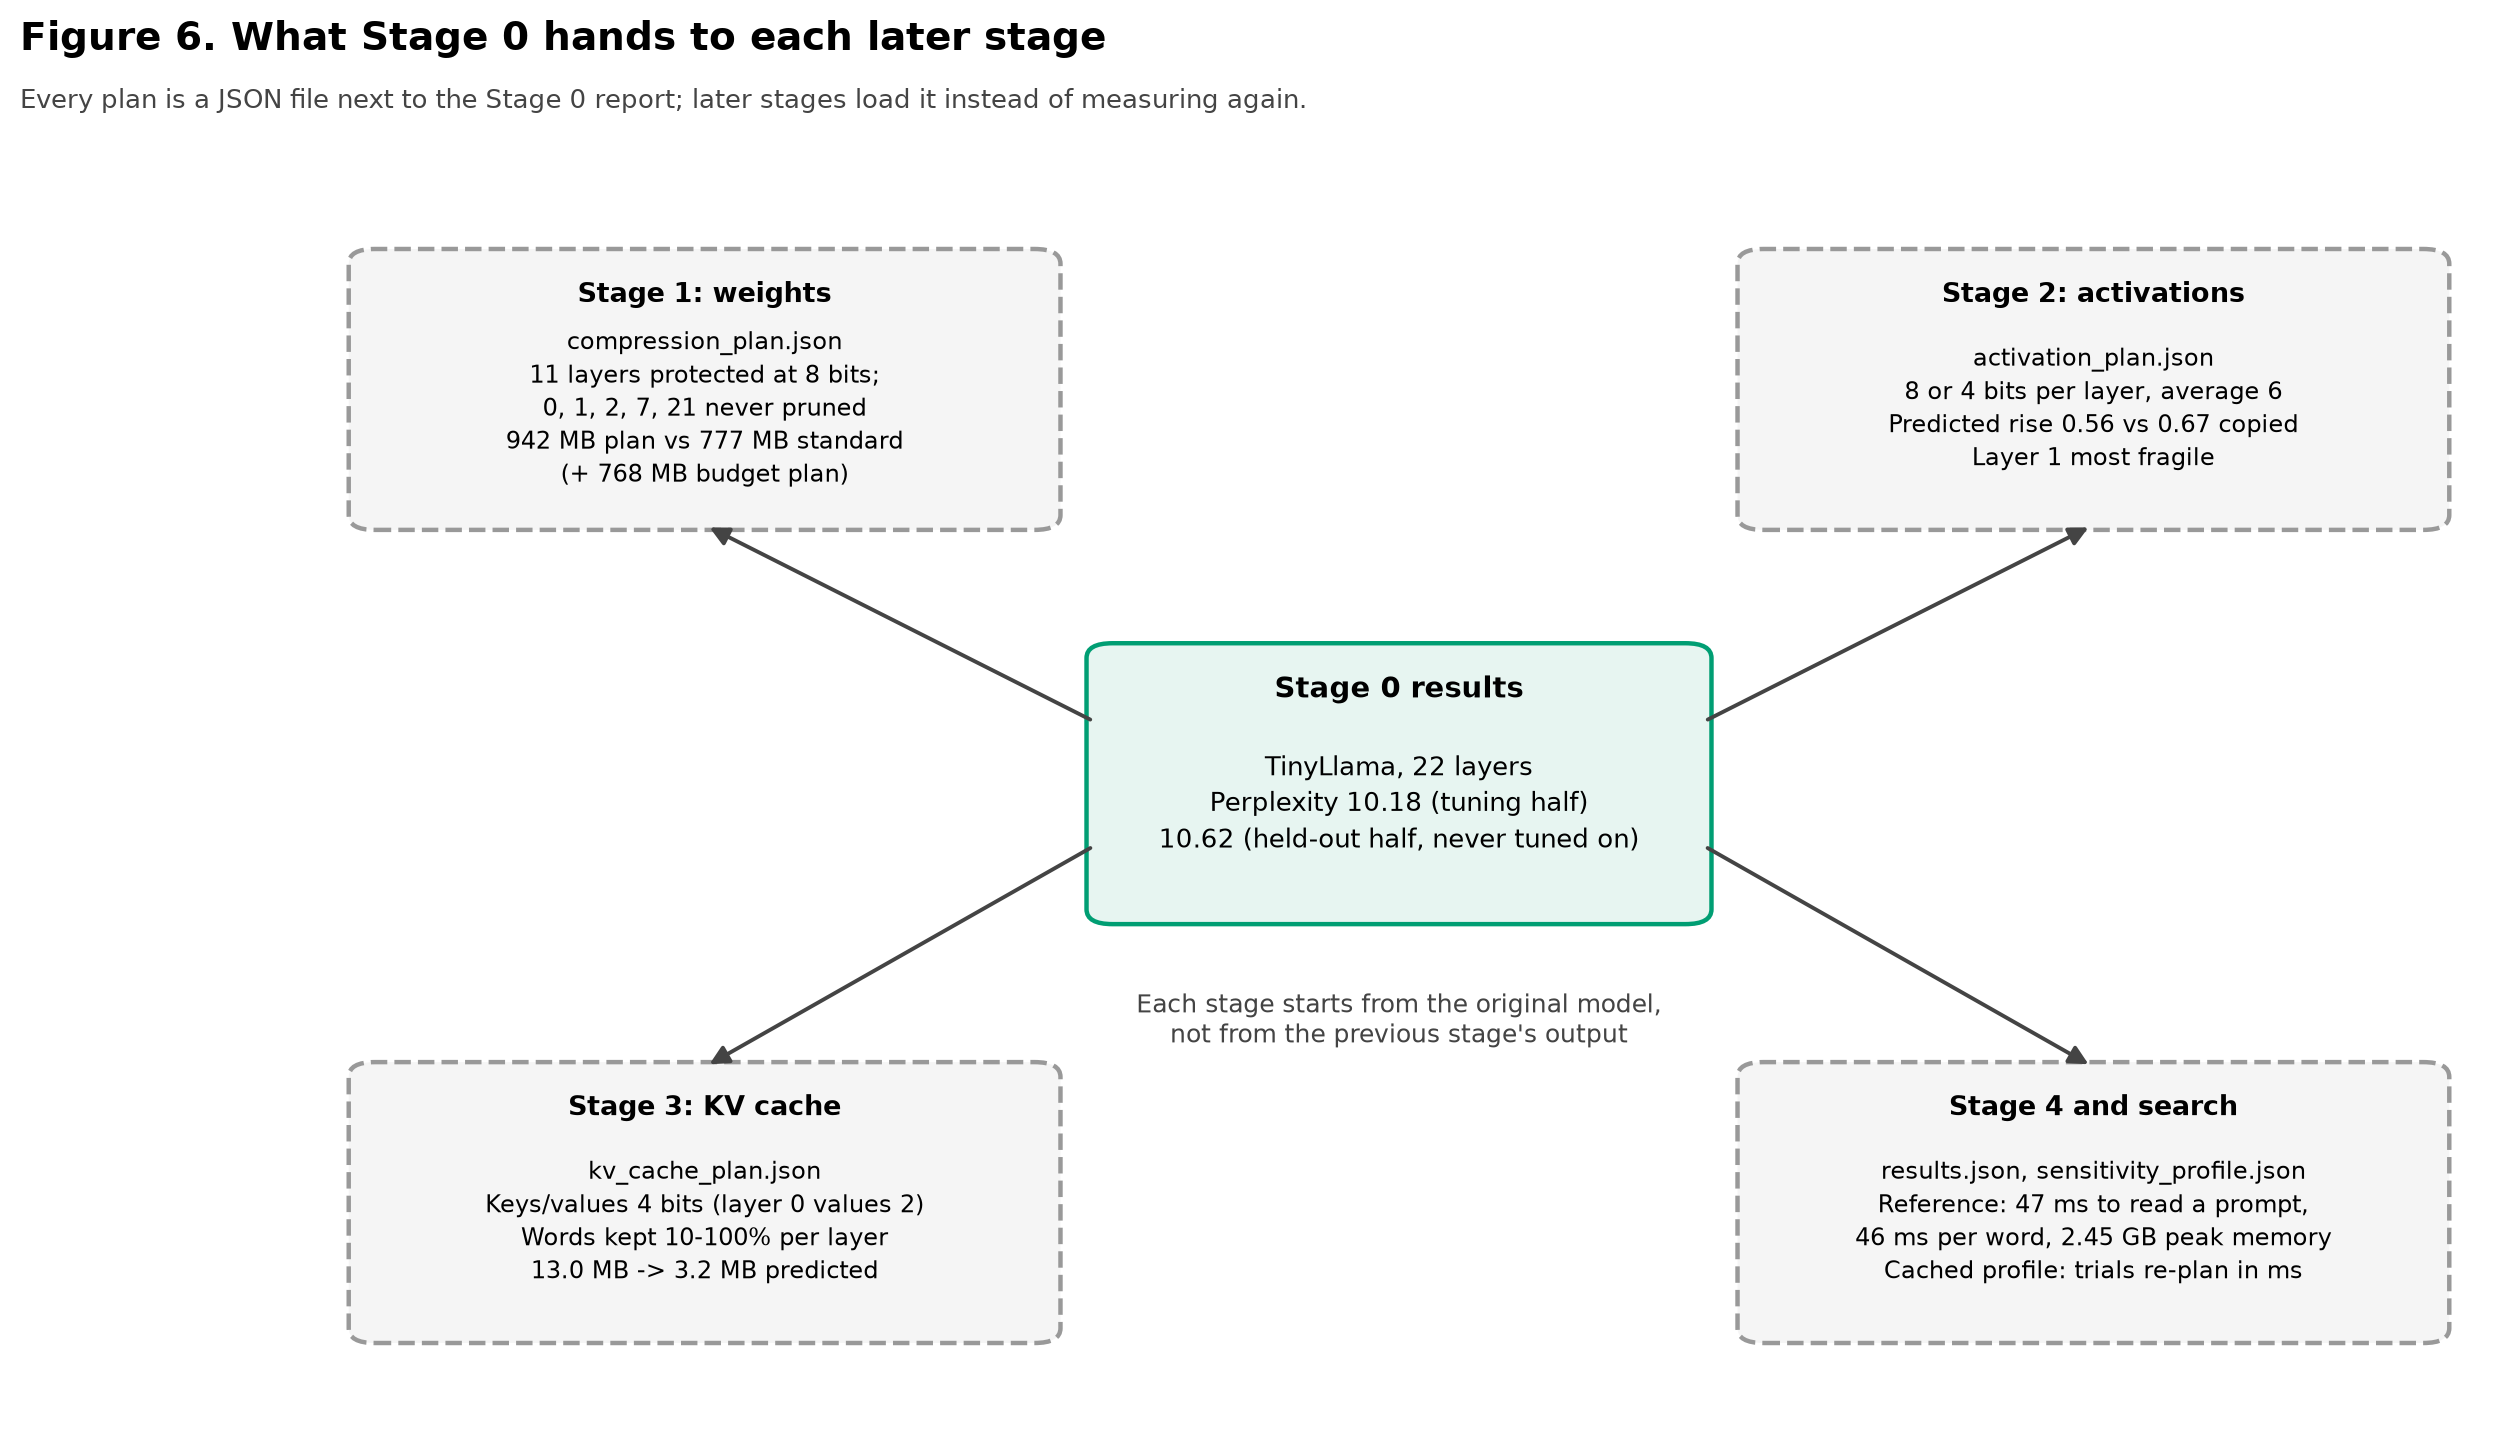
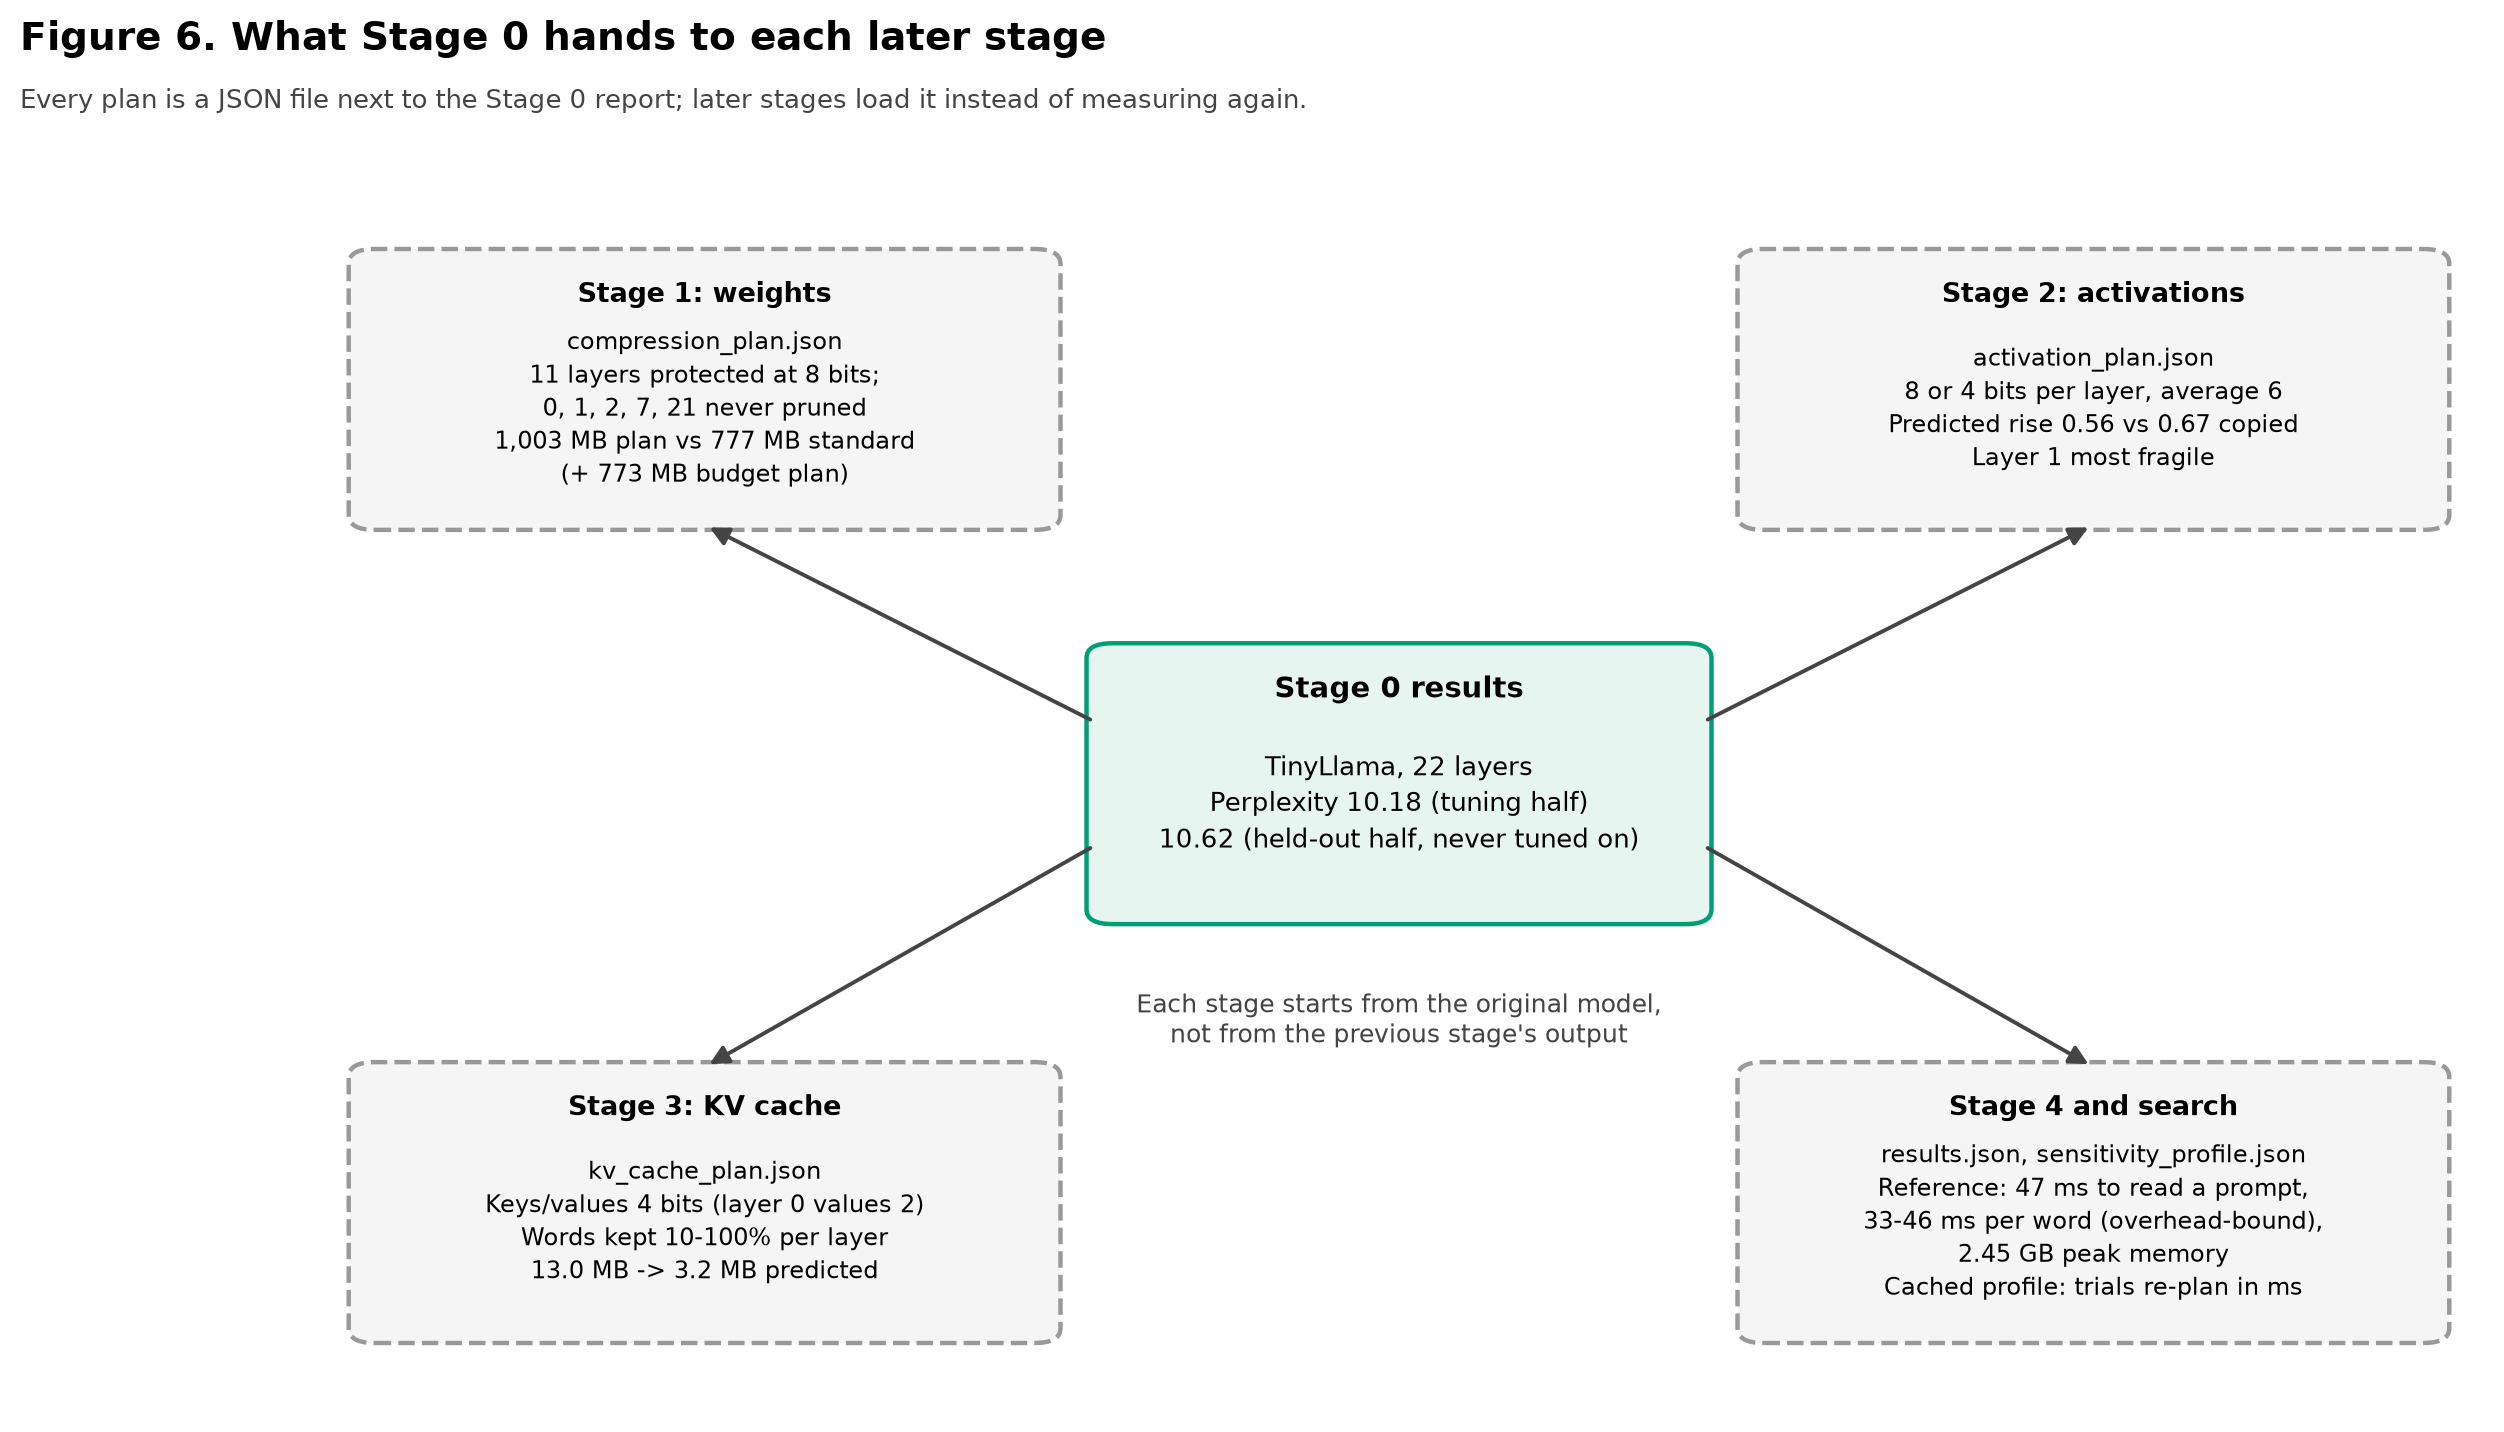
Figures 3 and 6: bitmask sizes and the new budget plan
Claude-Session: https://claude.ai/code/session_01LauJRpeJgk4V5RFqc3JMtD

Changed region(s): [[0.7476, 0.7989, 0.9345, 0.9218], [0.2181, 0.2765, 0.3738, 0.338]]

diff --git a/docs/figures/make_figures.py b/docs/figures/make_figures.py
@@ -152,11 +152,11 @@ def fig3_weight_plan():
                 arrowprops=dict(arrowstyle="->", color=NOTE))
     fig.legend(handles=[Patch(color=PROTECT, label="Main plan, protected: 8 bits, nothing removed (11 layers)"),
                        Patch(color=COMPRESS, label="Main plan, compressed: 4 bits, 30% removed (11 layers)"),
-                       Patch(fc="white", ec=GUARD, lw=2, label="Never pruned in any plan, even the smaller budget plan\n(number = perplexity added if skipped)")],
+                       Patch(fc="white", ec=GUARD, lw=2, label="Never pruned in any plan (the guard, from layer removal)\n(number = perplexity added if skipped)")],
               loc="lower left", fontsize=8.5, frameon=False, bbox_to_anchor=(0.03, 0.0), ncol=3)
 
     names = ["Original\n(16-bit)", "Standard\n4-bit", "Stage 0\nmain plan", "Stage 0\nbudget plan"]
-    mb = [2200, 777.0, 942.0, 768.0]
+    mb = [2200, 777.0, 1003.0, 773.0]
     c = [NOTE, PLANNED, DONE, DONE]
     ax2.bar(range(4), mb, color=c)
     for i, v in enumerate(mb):
@@ -164,12 +164,12 @@ def fig3_weight_plan():
     ax2.set(xticks=range(4), ylabel="Predicted size of the model's numbers\n(MB, smaller is better)", ylim=(0, 2550))
     ax2.set_xticklabels(names, fontsize=8.3)
     ax2.set_title("Predicted size of each version", fontsize=10.5, loc="left")
-    ax2.text(2, 1350, "The budget plan fits within the\nstandard method's memory,\nso Stage 1 compares accuracy\nat no extra memory",
+    ax2.text(2, 1350, "Measured perplexity (lower is better):\nstandard 10.96, main plan 10.71,\nbudget plan 11.50",
              ha="center", fontsize=8.5, color=NOTE)
-    fig.text(0.02, -0.03, "Bar colours show the main plan: all 11 blue layers keep 8 bits and lose nothing. The orange border matters in the smaller "
-             "budget plan, which protects only the 5 bordered layers; there the other blue layers drop to 4 bits with 30% removed.\n"
+    fig.text(0.02, -0.03, "Bar colours show the main plan: all 11 blue layers keep 8 bits and lose nothing. The budget plan protects only layer 0; "
+             "layers 1, 2, 7 and 21 stay at 4 bits with nothing removed, and the rest get 4 bits with 30% removed.\n"
              "Higher score = more fragile layer; for size, smaller is better. The score is the layer's rank by damage, not the damage itself: the five 'never pruned' layers "
-             "are where removing one layer hurts by far the most. Sizes are predictions; Stage 1 measures the real ones.",
+             "are where removing one layer hurts by far the most. Sizes are predictions that count 1 bit per weight to mark which weights were removed.",
              fontsize=8.8, color=NOTE)
     fig.tight_layout(rect=(0, 0.05, 1, 0.9))
     save(fig, "fig3_weight_plan")
@@ -235,10 +235,10 @@ def fig6_handoff():
                      "Every plan is a JSON file next to the Stage 0 report; later stages load it instead of measuring again.")
     box(ax, 36, 40, 28, 22, "Stage 0 results\nTinyLlama, 22 layers\nPerplexity 10.18 (tuning half)\n10.62 (held-out half, never tuned on)", DONE)
     targets = [
-        (2, 72, "Stage 1: weights\ncompression_plan.json\n11 layers protected at 8 bits;\n0, 1, 2, 7, 21 never pruned\n942 MB plan vs 777 MB standard\n(+ 768 MB budget plan)", (36, 56)),
+        (2, 72, "Stage 1: weights\ncompression_plan.json\n11 layers protected at 8 bits;\n0, 1, 2, 7, 21 never pruned\n1,003 MB plan vs 777 MB standard\n(+ 773 MB budget plan)", (36, 56)),
         (66, 72, "Stage 2: activations\nactivation_plan.json\n8 or 4 bits per layer, average 6\nPredicted rise 0.56 vs 0.67 copied\nLayer 1 most fragile", (64, 56)),
         (2, 6, "Stage 3: KV cache\nkv_cache_plan.json\nKeys/values 4 bits (layer 0 values 2)\nWords kept 10-100% per layer\n13.0 MB -> 3.2 MB predicted", (36, 46)),
-        (66, 6, "Stage 4 and search\nresults.json, sensitivity_profile.json\nReference: 47 ms to read a prompt,\n46 ms per word, 2.45 GB peak memory\nCached profile: trials re-plan in ms", (64, 46)),
+        (66, 6, "Stage 4 and search\nresults.json, sensitivity_profile.json\nReference: 47 ms to read a prompt,\n33-46 ms per word (overhead-bound),\n2.45 GB peak memory\nCached profile: trials re-plan in ms", (64, 46)),
     ]
     for x, y, text, anchor in targets:
         box(ax, x, y, 32, 22, text, PLANNED, dashed=True, fs=8.8)
